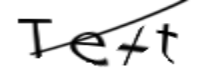
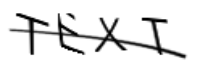
Initial commit

Changed region(s): [[0.03, 0.0, 0.96, 0.85]]

diff --git a/geneator/captcha.py b/geneator/captcha.py
@@ -1,7 +1,7 @@
 from claptcha import Claptcha
 
 # Initialize Claptcha object with "Text" as text and FreeMono as font
-c = Claptcha("Text", "/Library/Fonts/AppleGothic.ttf")
+c = Claptcha("A", "/Library/Fonts/AppleGothic.ttf")
 
 # Get PIL Image object
 text, image = c.image
@@ -17,7 +17,7 @@ print(text)         # 'Text'
 print(type(bytes))  # <class '_io.BytesIO'>
 
 # Save a PNG file 'test.png'
-text, file = c.write('test.png')
+text, file = c.write(text +'.png')
 
 print(text)         # 'Text'
 print(file)         # 'test.png'
